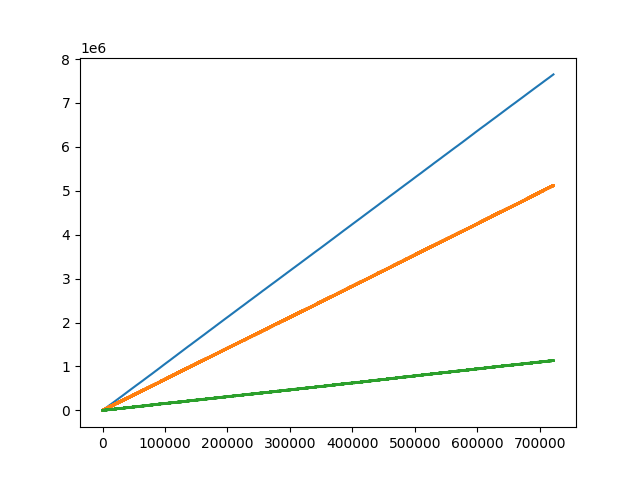
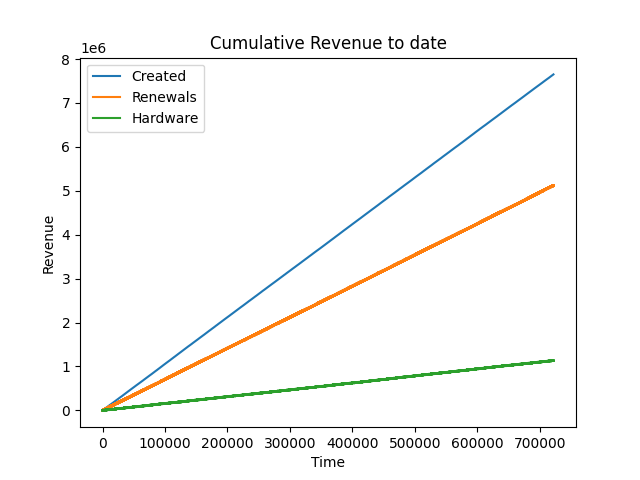
Update graph labels and titles.

diff --git a/utils/utils.py b/utils/utils.py
@@ -1,21 +1,6 @@
 import matplotlib.pyplot as plt
 import json
 
-def load():
-    """
-
-    :return:
-    """
-
-    pass
-
-def extract():
-    """
-    Extraction step of the data engineering pipeline
-    :return:
-    """
-    pass
-
 
 def plot_revenue_sum(total_created_revenue, total_renewed_revenue, hardware_revenue):
     """
@@ -34,14 +19,18 @@ def plot_revenue_sum(total_created_revenue, total_renewed_revenue, hardware_reve
 def plot_cumulative_sum(df_filtered_created, df_filtered_renewed, df_filtered_cancelled):
     """
     Plot the cumulative sum of revenue for created, renewed and hardware sales
-    :return: None
+    :return:
     """
     print("Plotting cumulative revenue.")
     plt.figure(3)
-    cumulative_total_created_revenue = df_filtered_created["revenue"].cumsum().plot()
-    cumulative_total_renewed_revenue = df_filtered_renewed["revenue"].cumsum().plot()
-    cumulative_total_hardware_revenue = df_filtered_cancelled["revenue"].cumsum().plot()
+    plt.xlabel('Time')
+    plt.ylabel('Revenue')
+    plt.title('Cumulative Revenue to date')
+    cumulative_total_created_revenue = df_filtered_created["revenue"].cumsum().plot(legend=True)
+    cumulative_total_renewed_revenue = df_filtered_renewed["revenue"].cumsum().plot(legend=True)
+    cumulative_total_hardware_revenue = df_filtered_cancelled["revenue"].cumsum().plot(legend=True)
     # cumulative_total_cancelled_revenue = df_filtered_cancelled["revenue"].cumsum().plot()
+    plt.legend(["Created", "Renewals", "Hardware"])
     plt.savefig("bi-output/cumulative_sum.png")
     pass
 
@@ -67,17 +56,21 @@ def cancellation_rate(dataframe, cancelled_subscriptions) -> float:
     labels = ["Cancelled Subscriptions", "Active Subscriptions"]
 
     plt.figure(1)
+    plt.title('Active vs. Cancelled subscriptions')
     pie_chart = plt.pie(values, labels=labels, autopct='%1.1f%%')
     plt.legend(pie_chart[0], labels, loc="best")
     plt.savefig("bi-output/cancellation_rate.png")
 
     return cancellation_rate
 
-def parse_event_json(json_file):
+def parse_event_json(json_file: str):
     """
-    Parses the event JSON file and enriches event data with supplementary customer data
-    :param json_file:
-    :return:
+    Parses the event JSON file and enriches event data with supplementary customer data.
+
+    We return the parsed json_data, the supplementary orders data anda list of cancelled subscriptions
+    :param json_file: A string representation of the json file to be parsed/processed
+
+    :return: json_data, orders_data, cancelled_subscriptions
     """
     print("Parsing event JSON.")
     json_data = []
@@ -112,20 +105,22 @@ def parse_event_json(json_file):
     return json_data, orders_data, cancelled_subscriptions
 
 
-def calculate_lifetime_value(dataframe):
+def calculate_lifetime_value(subscription_events_df):
     """
     Calculates the lifetime value per customer and orders in descending order
-    :param dataframe:
-    :return:
+    :param subscription_events_df: data frame containing subscription events
+    :return: No return, just calculates and plots the lifetime cumulative value
     """
-    lifetime_value = dataframe.groupby("customer_id")["revenue"].sum().sort_values(ascending=False)
-    return
+    plt.figure(4)
+    lifetime_value = subscription_events_df.groupby("customer_id")["revenue"].sum().sort_values(ascending=False).head(10)
+    lifetime_value.plot(x='customer_id', y='revenue', kind='bar')
+    plt.savefig("bi-output/lifetime.png")
 
 
 def calculate_total_revenue_to_date(subscription_events_df, hardware_sales_df):
     """
     Calculates the total revenue to date for created subscription, renewal and hardware events
-    :return: No return, juts plots and saves the revenue to date
+    :return: No return, just plots and saves the revenue to date graph
     """
     print("Calculating total revenue to date.")
 
